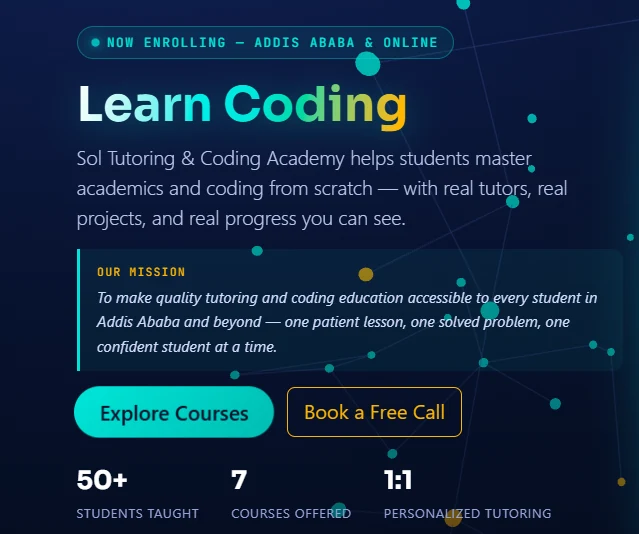
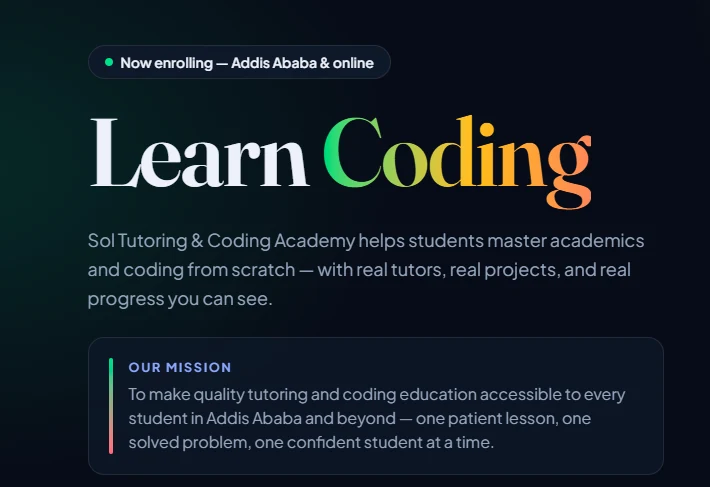
Update the stca academy project

diff --git a/src/data/portfolioData.ts b/src/data/portfolioData.ts
@@ -58,7 +58,7 @@ export const PROFILE = {
   role: "Computing Teacher & Full Stack Developer",
   tagline: "Building exceptional, high-performance digital products from Addis Ababa.",
   bio:
-    "Computer Science graduate from Addis Ababa University and Computing Teacher with 2+ years of professional teaching experience. I have hands-on full-stack development experience through three remote software development internships and multiple real-world projects, and I was recognized as Star Teacher of the Month at Trillium International School.",
+    "B.Sc. Computer Science graduate and multi-disciplinary STEM educator with strong proficiency in secondary Mathematics and Computing/ICT. Experienced in delivering Cambridge and inquiry-based curricula, integrating full-stack technical projects, and fostering analytical problem-solving skills across diverse student bodies.",
   avatar: "/images/solomon-avatar.jpg",
   email: "solethiocoder@gmail.com",
   phone: "+251 901436358",
@@ -404,22 +404,24 @@ export const MORE_PROJECTS: Project[] = [
   },
   {
     id: "stca-academy-react",
-    title: "STCA Academy Next-Gen Portal",
-    subtitle: "Modern React-Powered EdTech Web Application",
-    description: "A completely refactored Next-Generation EdTech portal boasting interactive live courses, slick UI, and modern React tools.",
-    longDescription: "Bringing STCA into the modern React ecosystem, this application introduced dynamic course filtering, immersive animated video previews, automated lecture syllabuses, and robust student onboarding flows.",
-    technologies: ["React", "CSS3 Modules", "Responsive Design", "Vite", "Netlify"],
+    title: "STCA Academy",
+    subtitle: "Sol Tutoring & Coding Academy website",
+    description:
+      "The website of Sol Tutoring & Coding Academy: students master academics and coding from scratch, with real tutors, real projects, and real progress they can see.",
+    longDescription:
+      "The home of my academy in Addis Ababa, with a clear mission: make quality tutoring and coding education accessible to every student in Addis Ababa and beyond, one patient lesson at a time. It presents the courses and tutoring services and invites new students to enroll, online or in person.",
+    technologies: ["React", "JavaScript", "HTML5", "CSS3", "Netlify"],
     features: [
-      "Dynamic interactive syllabus previews with expandable lesson modules",
-      "Lightning-fast client-side routing with React Router",
-      "Interactive quiz sample blocks with immediate score feedback",
+      "Now-enrolling banner, mission statement, and clear calls to action for courses and tutoring",
+      "Coding for beginners (Python, C++, Scratch) and for website builders (HTML, CSS, JavaScript)",
+      "Academic tutoring in Mathematics, Science, English, and Physics, plus national exam preparation for Grades 6, 8, and 12",
     ],
     image: "/images/project-stca-academy.webp",
-    github: "https://github.com/Sol-Ethio-Coder/stca-academy",
+    github: "https://github.com/Sol-Ethio-Coder/Sol-Tutoring-And-Coding-Academy",
     live: "https://stca-academy.netlify.app/",
     category: "fullstack",
     featured: false,
-    color: "from-violet-500 to-purple-700",
+    color: "from-emerald-400 to-green-700",
     year: "2026",
   },
 ];

diff --git a/index.html b/index.html
@@ -4,7 +4,7 @@
     <meta charset="UTF-8" />
     <meta name="viewport" content="width=device-width, initial-scale=1.0, viewport-fit=cover" />
     <title>Solomon Ashagre | Full Stack Developer & Educator</title>
-    <meta name="description" content="Solomon Ashagre is a full stack developer (React, Node.js, MongoDB), STCA founder and computer science educator in Addis Ababa, Ethiopia." />
+    <meta name="description" content="Solomon Ashagre is a computing teacher and full stack developer (React, Node.js, MongoDB), and founder of STCA, in Addis Ababa, Ethiopia." />
     <meta name="author" content="Solomon Ashagre" />
     <meta name="theme-color" content="#0A0B10" />
     <link rel="canonical" href="https://sol-ethio-coder.netlify.app/" />
@@ -13,13 +13,17 @@
     <meta property="og:title" content="Solomon Ashagre | Full Stack Developer & Educator" />
     <meta property="og:description" content="Full stack developer, STCA founder and educator from Addis Ababa. Selected projects, skills and journey." />
     <meta property="og:url" content="https://sol-ethio-coder.netlify.app/" />
-    <meta property="og:image" content="https://sol-ethio-coder.netlify.app/images/solomon-avatar.jpg" />
-    <meta name="twitter:card" content="summary" />
+    <meta property="og:image" content="https://sol-ethio-coder.netlify.app/og-image.png" />
+    <meta property="og:image:width" content="1200" />
+    <meta property="og:image:height" content="630" />
+    <meta property="og:image:alt" content="Solomon Ashagre, Computing Teacher and Full Stack Developer in Addis Ababa" />
+    <meta name="twitter:card" content="summary_large_image" />
     <meta name="twitter:title" content="Solomon Ashagre | Full Stack Developer & Educator" />
-    <meta name="twitter:image" content="https://sol-ethio-coder.netlify.app/images/solomon-avatar.jpg" />
+    <meta name="twitter:image" content="https://sol-ethio-coder.netlify.app/og-image.png" />
     <link rel="icon" href="/favicon.ico" sizes="48x48" />
     <link rel="icon" type="image/png" sizes="32x32" href="/favicon-32.png" />
     <link rel="icon" type="image/png" sizes="16x16" href="/favicon-16.png" />
+    <link rel="manifest" href="/site.webmanifest" />
     <link rel="apple-touch-icon" sizes="180x180" href="/favicon-180.png" />
     <link rel="preconnect" href="https://fonts.googleapis.com" />
     <link rel="preconnect" href="https://fonts.gstatic.com" crossorigin />

diff --git a/public/404.html b/public/404.html
@@ -1,0 +1,32 @@
+<!doctype html>
+<html lang="en">
+<head>
+  <meta charset="UTF-8" />
+  <meta name="viewport" content="width=device-width, initial-scale=1.0" />
+  <meta name="robots" content="noindex" />
+  <title>Page not found | Solomon Ashagre</title>
+  <link rel="icon" href="/favicon.ico" sizes="48x48" />
+  <style>
+    :root { color-scheme: dark light; }
+    * { box-sizing: border-box; }
+    body { margin: 0; min-height: 100vh; display: grid; place-items: center; padding: 24px; text-align: center;
+      font-family: "Space Grotesk", ui-sans-serif, system-ui, sans-serif; background: #0a0b10; color: #eceef4; }
+    @media (prefers-color-scheme: light) { body { background: #f6f5f1; color: #111318; } }
+    code { font-family: ui-monospace, SFMono-Regular, monospace; color: #c8f169; font-size: 14px; letter-spacing: .2em; }
+    @media (prefers-color-scheme: light) { code { color: #3f6212; } }
+    h1 { font-size: clamp(2.5rem, 9vw, 5rem); line-height: 1.05; margin: 14px 0 12px; letter-spacing: -0.03em; }
+    p { color: #a2a8b8; max-width: 30rem; margin: 0 auto 28px; line-height: 1.7; }
+    a { display: inline-block; background: #c8f169; color: #0a0b10; font-weight: 600; text-decoration: none;
+      padding: 14px 26px; border-radius: 999px; transition: transform .2s, box-shadow .2s; }
+    a:hover { transform: translateY(-2px); box-shadow: 0 10px 30px -10px #c8f169; }
+  </style>
+</head>
+<body>
+  <main>
+    <code>ERROR 404</code>
+    <h1>Page not found</h1>
+    <p>The page you are looking for does not exist or has moved. Let's get you back to the portfolio.</p>
+    <a href="/">Back to home</a>
+  </main>
+</body>
+</html>
